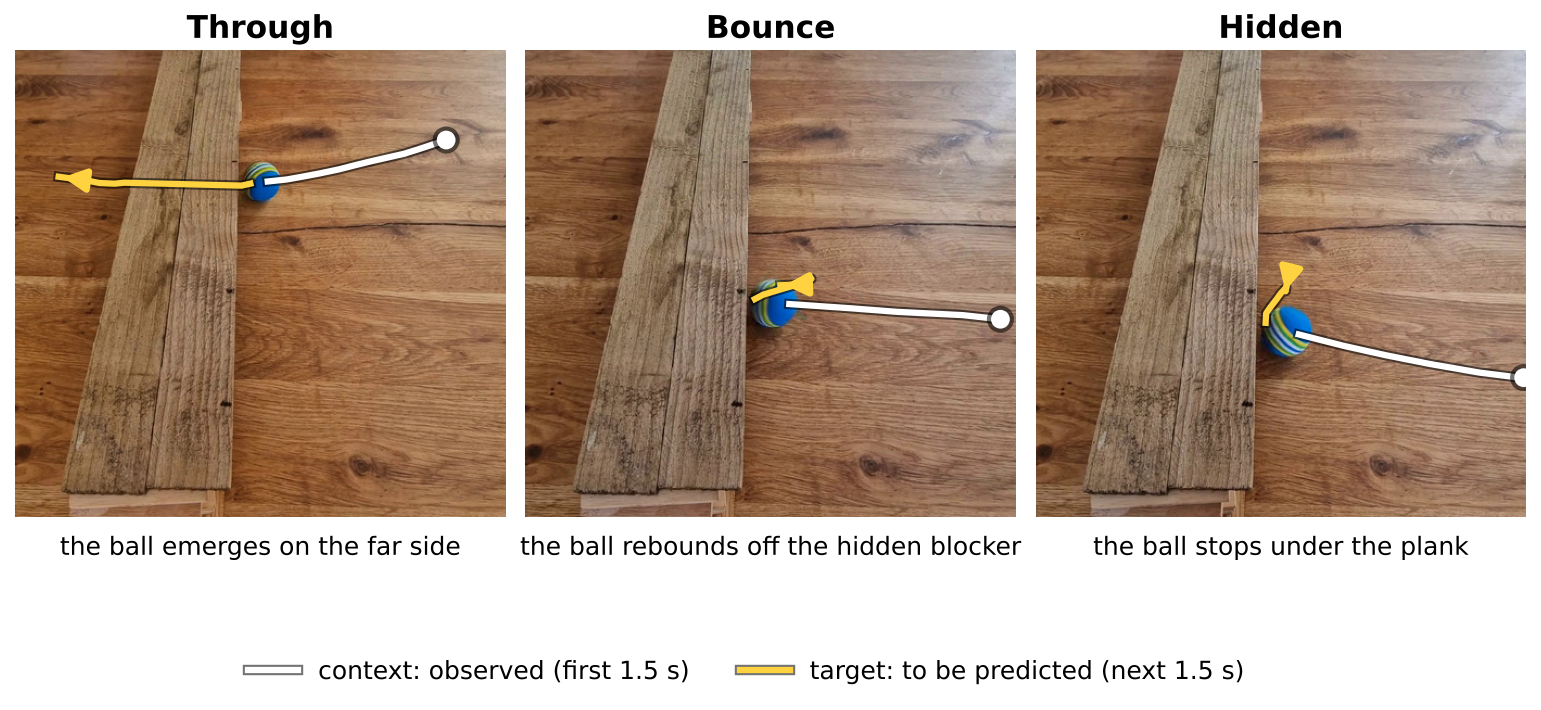
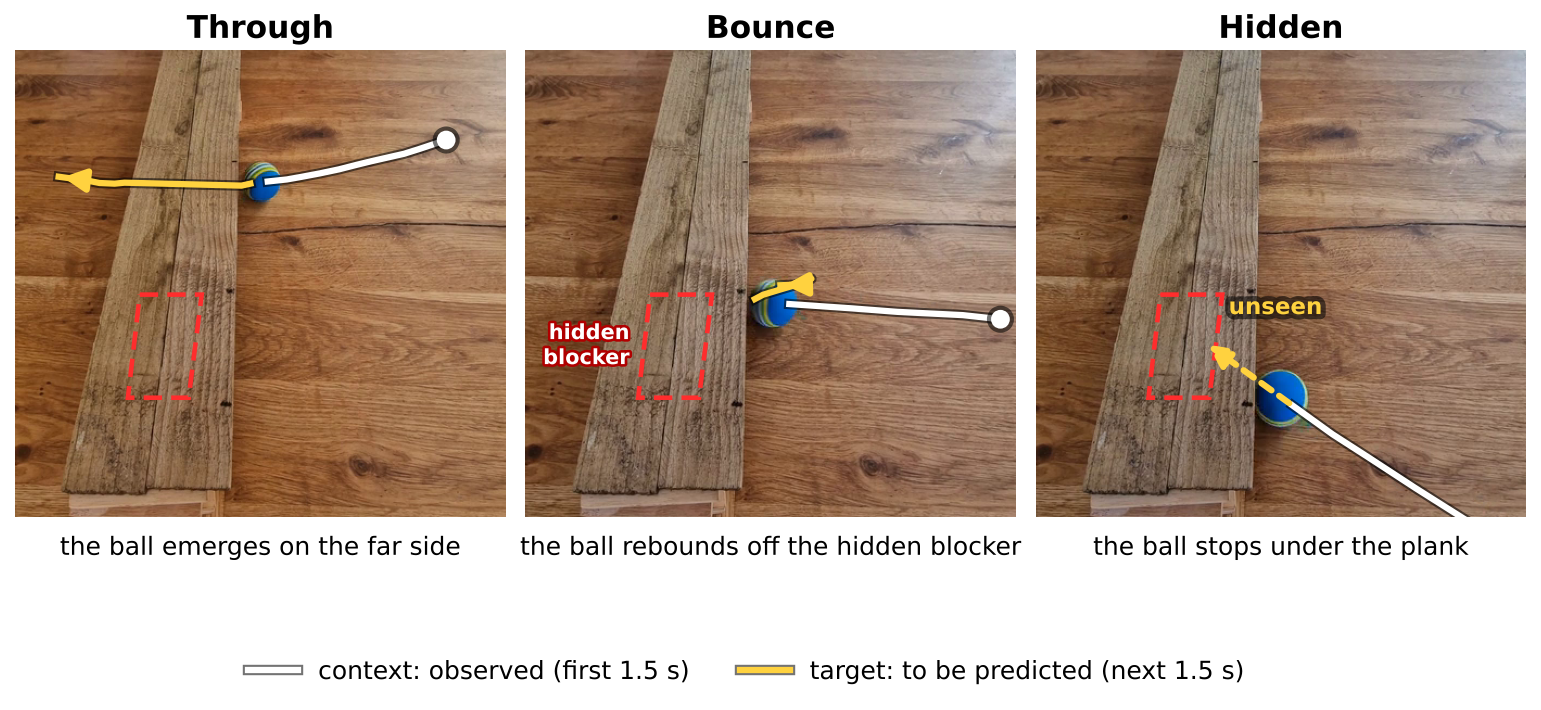
docs(readme): place the blocker correctly, clarify loss origin, policy actions and online updates
Blocker outline moved to the plank's centre seam between the middle and far
markers and added to the outcome figure, the data GIF and the rollout GIFs.
The hidden pass now shows a dashed 'unseen' arrow into the plank. The text
separates V-JEPA 2's standard objective from this work's additions, explains
the PyBullet choice, states what the policy learns, shortens the policy maths
and the Octo section, and adds sections on updating the world model during
operation and on JEPA with more compute.

diff --git a/docs/figures/make_figures.py b/docs/figures/make_figures.py
@@ -26,9 +26,9 @@ PLAN = REPO / "results" / "2026-10-04_2110_twoday" / "vjepa2" / "plan"
 SCENE = json.loads((REPO / "configs" / "scenes" / "whole.json").read_text())
 PLANK = np.asarray(SCENE["occluder_polygon"], float)
 
-# hidden blocker as placed (Fin, 16 Oct): under the two dark markers on the plank's right edge,
-# about half the plank width, in the middle along the plank
-BLOCKER = np.array([[201, 255], [258, 255], [256, 370], [188, 370]], float)
+# hidden blocker as placed (Fin, 16 Oct): centred on the seam between the plank's two boards, about half
+# the plank's width, along the plank between its middle and far dark markers
+BLOCKER = np.array([[175, 265], [232, 265], [220, 360], [164, 360]], float)
 
 PRE, TWO, FINAL = "both-before", "lossmix_both-after", "lossmix_topup-after"
 NAMES = {PRE: "Pretrained V-JEPA 2",
@@ -55,11 +55,35 @@ FONT = str(Path(matplotlib.__file__).parent / "mpl-data" / "fonts" / "ttf" / "De
 OUTLINE = [pe.Stroke(linewidth=5, foreground="black", alpha=0.55), pe.Normal()]
 
 
+def _blocker(ax, label: bool = True) -> None:
+    """Dashed outline of the hidden blocker (never visible in the video)."""
+    import matplotlib.patheffects as pe
+    from matplotlib.patches import Polygon
+    ax.add_patch(Polygon(BLOCKER, closed=True, fill=False, ec="#ff2d2d", lw=2.2, ls=(0, (4, 2))))
+    if label:
+        ax.text(BLOCKER[:, 0].min() - 8, BLOCKER[:, 1].mean(), "hidden\nblocker", ha="right", va="center",
+                fontsize=10, color="white", fontweight="bold",
+                path_effects=[pe.withStroke(linewidth=2.5, foreground="#b00000")])
+
+
+def _blocker_pil(im: Image.Image, scale: float) -> Image.Image:
+    from PIL import ImageDraw
+    d = ImageDraw.Draw(im)
+    pts = [tuple(q) for q in (BLOCKER * scale)]
+    for a, b in zip(pts, pts[1:] + pts[:1]):          # dashed edges
+        n = int(np.hypot(b[0] - a[0], b[1] - a[1]) // 6) + 1
+        for k in range(0, n, 2):
+            t0, t1 = k / n, (k + 1) / n
+            d.line([(a[0] + (b[0] - a[0]) * t0, a[1] + (b[1] - a[1]) * t0),
+                    (a[0] + (b[0] - a[0]) * t1, a[1] + (b[1] - a[1]) * t1)], fill=(255, 45, 45), width=3)
+    return im
+
+
 def fig_outcomes(clips: Path) -> None:
     rows = {r["clip_id"]: r for r in json.loads((PLAN / "scores" / PRE / "per_clip.json").read_text())}
     picks = [("whole_0206", "Through", "the ball emerges on the far side"),
              ("whole_0000", "Bounce", "the ball rebounds off the hidden blocker"),
-             ("whole_0007", "Hidden", "the ball stops under the plank")]
+             ("whole_0061", "Hidden", "the ball stops under the plank")]
     fig, axes = plt.subplots(1, 3, figsize=(13, 5.0), gridspec_kw={"wspace": 0.04})
     for ax, (cid, title, sub) in zip(axes, picks):
         frames = iio.imread(clips / "right" / f"{cid}.mp4")
@@ -69,7 +93,14 @@ def fig_outcomes(clips: Path) -> None:
         fut = np.array([q for q in r["true_pos"] if q], float)
         ax.plot(ctx[:, 0], ctx[:, 1], "-", color="white", lw=3, path_effects=OUTLINE)
         ax.plot(*ctx[0], "o", color="white", ms=8, path_effects=OUTLINE)
-        if len(fut):
+        _blocker(ax, label=title == "Bounce")
+        if title == "Hidden":            # never seen again: the ball runs under the plank and stops there
+            end = ctx[-1] + 2.2 * (ctx[-1] - ctx[-2])
+            ax.annotate("", end, ctx[-1], arrowprops={"arrowstyle": "-|>", "color": "#ffd23f", "lw": 3,
+                                                      "ls": (0, (2, 1.5)), "mutation_scale": 22})
+            ax.text(end[0] + 22, end[1] - 26, "unseen", ha="left", fontsize=11, color="#ffd23f",
+                    fontweight="bold", path_effects=OUTLINE)
+        elif len(fut):
             ax.plot(fut[:, 0], fut[:, 1], "-", color="#ffd23f", lw=3, path_effects=OUTLINE)
             ax.annotate("", fut[-1], fut[max(len(fut) - 3, 0)], arrowprops={"arrowstyle": "-|>", "color": "#ffd23f",
                                                                         "lw": 3, "mutation_scale": 22})
@@ -116,13 +147,13 @@ def _clean_orange(path: Path) -> list[np.ndarray]:
 def gif_data(clips: Path, orange: Path | None) -> None:
     parts = [("right", "whole_0206", "Ball from the right", "outcome: through"),
              ("right", "whole_0000", "Ball from the right", "outcome: bounce (blocked)"),
-             ("right", "whole_0007", "Ball from the right", "outcome: hidden (blocked)"),
+             ("right", "whole_0061", "Ball from the right", "outcome: hidden (blocked)"),
              ("left", "whole_0290", "Ball from the left", "outcome: through")]
     frames, dur = [], []
     for side, cid, title, sub in parts:
         v = iio.imread(clips / side / f"{cid}.mp4")
         for i in range(0, len(v), 3):
-            im = Image.fromarray(v[i]).resize((360, 360), Image.LANCZOS)
+            im = _blocker_pil(Image.fromarray(v[i]).resize((360, 360), Image.LANCZOS), 360 / 512)
             frames.append(_caption(im, title, sub))
             dur.append(190)
         dur[-1] = 900
@@ -194,15 +225,6 @@ def fig_rollout(clips: Path, cid: str, side: str, title: str, name: str) -> None
     # row labels sit left of the first image column; free that column for rows 2 and 3
     fig.suptitle(title, fontsize=14, fontweight="bold", y=0.96)
     save(fig, name)
-
-
-def _blocker(ax) -> None:
-    from matplotlib.patches import Polygon
-    import matplotlib.patheffects as pe
-    ax.add_patch(Polygon(BLOCKER, closed=True, fill=False, ec="#ff2d2d", lw=2.2, ls=(0, (4, 2))))
-    ax.text(BLOCKER[:, 0].max() + 10, BLOCKER[:, 1].mean(), "hidden\nblocker", ha="left", va="center",
-            fontsize=10, color="white", fontweight="bold",
-            path_effects=[pe.withStroke(linewidth=2.5, foreground="#b00000")])
 
 
 def gif_rollout(clips: Path, cid: str, side: str, name: str) -> None:

diff --git a/README.md b/README.md
@@ -98,12 +98,14 @@ scoring only. Clips in which a hand touches the ball are excluded.
 <p align="center"><img src="docs/figures/data.gif" width="420"></p>
 
 *Figure 2. Sample clips: the three outcomes from the training direction, a pass from the opposite direction, and
-stills of the held-out orange ball.*
+stills of the held-out orange ball. The red dashed outline marks the hidden blocker.*
 
 <p align="center"><img src="docs/figures/data_outcomes.png" width="900"></p>
 
 *Figure 3. The three outcome classes, shown on the last context frame. White: the observed context track (circle =
-start). Yellow: the target track the model must predict. "Bounce" and "hidden" are both blocked passes.*
+start). Yellow: the target track the model must predict; on the hidden pass it is dashed because the ball is never
+seen again. Red dashed outline: the hidden blocker, centred under the plank. "Bounce" and "hidden" are both blocked
+passes.*
 
 ## 2. Architecture and measurement
 
@@ -112,7 +114,10 @@ start). Yellow: the target track the model must predict. "Bounce" and "hidden" a
 Three generative video models, Wan 2.1 [1], Cosmos and LTX-Video (runners in `models/`), were evaluated
 zero-shot and did not meet the requirements of the problem. Pixel generation spends capacity on texture and
 lighting that carry no information about the blocker; their outputs were frequently blurry or physically
-implausible and had to be re-tracked before they could be scored. Billion-parameter diffusion models are also
+implausible and had to be re-tracked before they could be scored. They also lacked the scene knowledge itself:
+zero-shot, they typically showed the ball continuing along or under the plank rather than being stopped, the same
+inherent error as the pretrained V-JEPA 2, so they too would have required post-training on this scene, at far
+greater cost. Billion-parameter diffusion models are also
 expensive to adapt on a few hundred clips and prone to overfitting at that scale, and iterative denoising is too
 slow for a robot control loop.
 
@@ -142,6 +147,14 @@ Post-training is therefore not an extra matrix added after the model. It is a fu
 observed scene tokens to future scene tokens, with the representation $E_\theta$ held fixed. The prediction target
 is the layer-normalised encoder output of the real target half, $\bar z_t = \mathrm{LN}(z_t)$, as in V-JEPA 2's
 pretraining.
+
+**What is standard and what is new.** The architecture, the frozen encoder, the layer-normalised latent target and
+the plain L1 regression are V-JEPA 2's own design [2], which pretrains with a non-contrastive masked-prediction loss
+and an exponential-moving-average target encoder to avoid collapse. Three elements are added in this work for
+post-training on a small scene-specific dataset: the motion weighting $w_i$, the contrastive term, and
+loss-weighted sampling. The contrastive term is InfoNCE, introduced for Contrastive Predictive Coding [5]; JEPA
+pretraining deliberately avoids contrastive objectives, but here the term is safe to use because the encoder, and
+therefore the target space, is frozen, so the representation cannot collapse.
 
 **Objective.** The final configuration minimises a motion-weighted latent L1 loss plus a contrastive term:
 
@@ -407,58 +420,37 @@ above are what make the forecast matter.
 
 ### 6.3 Simulation and policy training
 
-The gripper is simulated in PyBullet (`models/gripper/`). Only the grasp of a single rolling ball is modelled,
-so a lightweight rigid-body simulator gives fast, reproducible training on a laptop CPU; heavier robotics stacks add
-fidelity this task does not need. Each episode replays a real exit (position, time and velocity from the tracker,
-with small jitter).
+**Simulator.** The gripper is simulated in PyBullet (`models/gripper/`). The question here is whether the forecast
+changes behaviour, not how to grasp in general, so the simulator only needs a rolling ball, two fingers and
+contact good enough to tell a held ball from a dropped one. PyBullet provides this from a single pip install, runs
+fast on a laptop CPU and has a built-in viewer for checking episodes. MuJoCo would offer more accurate contact and
+GPU-parallel training, but neither changes the answer for a 4 cm ball and a two-finger gripper, so the simpler tool
+was chosen deliberately to avoid over-engineering the part of the system that is not under test. Each episode
+replays a real exit (position, time and velocity from the tracker, with small jitter).
 
-**Observation, action and reward.** The observation $o_t \in \mathbb{R}^{17}$ contains the forecast
-$(\hat x, \hat t - t, \hat v)$ and its stated $(\sigma_s, \sigma_t, \sigma_v)$, the gripper's position and finger
-opening, and, once the ball is visible, a fit of its observed position and velocity. The action
-$a_t \in [-1, 1]^4$ sets the gripper's velocity in two directions, the finger opening and a grasp trigger, every
-1/16 s. The episode reward is
+**What the policy learns.** Every 1/16 s the policy outputs four numbers in $[-1, 1]$: the gripper's velocity
+along the plank edge, its velocity towards or away from the plank, how far the fingers are open, and a trigger to
+close. In effect it learns **where to wait** before the ball appears, **when to start moving**, **how wide to open**
+(wider is safer but slower to close) and **when to close**. Its observation $o_t \in \mathbb{R}^{17}$ is the forecast
+(exit position, time to exit, speed) and its stated uncertainty, the gripper's own position and opening, and, once
+the ball is visible, a fit of the ball's observed position and velocity.
 
-$$
-r =
-\begin{cases}
-1 + 0.5\,(1 - \delta) - 0.3\,g - c_{\text{move}} & \text{ball lifted and held} \\
--1 - c_{\text{move}} & \text{miss}
-\end{cases}
-$$
+**Reward and training.** Each episode scores
+$r = 1 + 0.5\,(1 - \delta) - 0.3\,g - c_{\text{move}}$ if the ball is lifted and held, and
+$r = -1 - c_{\text{move}}$ otherwise, where $\delta$ is how late the grasp happened, $g$ how wide the fingers were
+open and $c_{\text{move}}$ a small travel cost. The policy, a two-layer MLP (128 units), is trained with the standard
+PPO clipped objective [6] (Stable-Baselines3, standard settings with a small entropy bonus; 2.5 M steps per fold, 5 folds). The task-specific part is the
+training forecast: each episode draws an uncertainty $u \sim \mathcal{U}(0, 1)$ and a forecast equal to the true
+exit plus Gaussian noise of exactly the stated size, $\hat x = x + \varepsilon$, $\varepsilon \sim \mathcal{N}(0, (0.12u)^2)$
+m, and likewise for timing and speed. The policy therefore learns how far to trust a
+forecast from its stated uncertainty. It is then **frozen** and driven by each world model's real forecast, which it
+never saw paired with a real outcome, so one policy serves every world model and the comparison is not confounded by
+policy training.
 
-where $\delta \in [0, 1]$ is how deep into the catch zone the grasp happened (earlier is better), $g \in [0, 1]$ is
-how wide the fingers were open, and $c_{\text{move}}$ is a small cost on distance travelled.
-
-**Training.** The policy $\pi_\psi(a \mid o)$, a two-layer MLP (128 units per layer), is trained with PPO [6] by
-maximising the clipped surrogate objective
-
-$$
-\mathcal{L}^{\text{CLIP}}(\psi) = \mathbb{E}_t\Big[\min\big(\rho_t(\psi)\,\hat A_t,\ \mathrm{clip}(\rho_t(\psi), 1 - \epsilon, 1 + \epsilon)\,\hat A_t\big)\Big] + \beta\,\mathcal{H}[\pi_\psi],
-\qquad \rho_t(\psi) = \frac{\pi_\psi(a_t \mid o_t)}{\pi_{\psi_{\text{old}}}(a_t \mid o_t)}
-$$
-
-with advantages $\hat A_t$ from generalised advantage estimation ($\gamma = 0.99$, $\lambda = 0.95$),
-$\epsilon = 0.2$, entropy weight $\beta = 0.003$, learning rate $3 \times 10^{-4}$, 512-step rollouts and 10 update
-epochs, for 2.5 M steps per fold over 5 folds (Stable-Baselines3). During training each episode draws
-$u \sim \mathcal{U}(0, 1)$ and a forecast equal to the true exit plus Gaussian noise of exactly the stated size,
-$\hat x = x + \varepsilon$ with $\varepsilon \sim \mathcal{N}(0, \sigma_s^2)$, and likewise for timing and speed.
-The policy therefore learns how much to trust a forecast from its stated uncertainty. It is then **frozen** and
-evaluated on real passes with each world model's forecast, and it never sees a world model's real forecast paired
-with a real outcome. The trade-off is that the policy must be calibrated to the uncertainty the world model actually
-reports; in exchange, one policy serves every world model and the comparison between world models is not confounded
-by policy training.
-
-**Decision to set off.** Before the ball can emerge, the gripper decides whether to move at all. With $c(u)$ the
-frozen policy's simulated pick-up rate at uncertainty $u$ (Figure 9), it sets off if and only if
-
-$$
-p\,\big[c(u)\,(R_{\text{pick}} + \bar e) - (1 - c(u))\,R_{\text{miss}}\big] - (1 - p)\,R_{\text{waste}}
-\;>\; -p\,R_{\text{let go}} + (1 - p)\,R_{\text{hold}}
-$$
-
-with the evaluation rewards $R_{\text{pick}} = 3$ (plus a mean early bonus $\bar e = 0.25$), $R_{\text{miss}} = 0.5$,
-$R_{\text{waste}} = 1$ for a trip to a blocked ball, $R_{\text{let go}} = 1$ for staying when the ball emerges, and
-$R_{\text{hold}} = 0.5$ for correctly holding back. Nothing in this rule is fitted to real data.
+**Decision to set off.** Before the ball can emerge, the gripper decides whether to move at all: it sets off when
+the expected reward of going, $p$ times the reward of a pick-up attempt at the policy's simulated success rate
+$c(u)$ minus $(1 - p)$ times the cost of a wasted trip, exceeds the expected reward of staying. The rule uses fixed
+rewards and the simulated $c(u)$ only; nothing in it is fitted to real data.
 
 ### 6.4 How uncertainty drives behaviour
 
@@ -512,17 +504,10 @@ limits, its observation layout and a reward tuned to its catch geometry, and the
 catch-rate curve $c(u)$. A different robot needs its own low-level controller, which is the cheapest part to obtain
 because it is trained in simulation.
 
-**A concrete route for a generalist policy: Octo.** Octo [7] is an open-source transformer policy whose inputs are
-tokenised modality by modality, and which was designed to be fine-tuned to **new observation inputs and new action
-spaces** by adding a lightweight tokenizer and head while keeping the pretrained backbone. The forecast vector would
-enter as an additional low-dimensional observation token alongside the camera tokens, and Octo would be fine-tuned
-on demonstrations generated in simulation by the PPO policy above, which supplies unlimited, perfectly labelled
-trajectories for any embodiment that can be simulated. Octo suits this because its tokenised inputs accept a new
-sensor-like signal without architectural change and it fine-tunes on a single GPU from a few hundred
-demonstrations. π0 is a viable alternative through its proprioceptive state input, at higher compute cost.
-OpenVLA conditions only on an image and a language instruction, so the forecast would have to be rendered into
-the image or the prompt, which discards its numerical precision. This fine-tune has not been run; it is the natural
-next step for carrying the result to a general-purpose manipulator.
+**A route to a generalist policy.** Octo [7], an open-source generalist robot policy, is designed to be fine-tuned
+to new observation inputs and action spaces by adding a small input tokenizer and output head. The forecast would
+enter as one extra low-dimensional observation token, and Octo would be fine-tuned on demonstrations generated in
+simulation by the PPO policy above. This fine-tune has not been run.
 
 ## 7. Conclusion, impact and outlook
 
@@ -546,14 +531,36 @@ verifiable test of the property those systems rely on: that scene-specific physi
 video and measured independently of the readout. Latent prediction also needs only one forward pass per forecast,
 which suits on-board inference on power-limited humanoid hardware better than iterative video generation.
 
-### 7.3 Handheld and egocentric video
+### 7.3 Updating the world model while the robot operates
+
+Because every pass labels itself (the first half of a clip is the input, the second half the target), the world
+model can keep learning during operation. A feasible scheme is to buffer recent clips from the robot's camera, run
+predictor updates in the background between tasks with a small learning rate, and replay a share of older clips so
+that earlier knowledge is not forgotten. The frozen probe and encoder keep the readout valid throughout, so the
+policy's input means the same thing before and after each update. This is cheaper for a JEPA than for a generative
+model: only the predictor (12 layers at width 384, a small fraction of the model) is updated, the target is one
+encoder pass of the real future rather than a pixel reconstruction, and no diffusion steps are needed. In this work
+an update cost under one second per clip on a single T4 (from the 20-epoch run time), against billion-parameter
+updates for a video diffusion model. A moved-blocker recording would test how quickly such updates adapt.
+
+### 7.4 Would a JEPA remain the choice with more compute?
+
+For the forecasting layer, yes. Compute was not the only reason for choosing V-JEPA 2: latent prediction suits
+multi-modal outcomes, is cheap to run on a robot and plugs directly into planning [2]. With more compute, the main
+change would be to post-train more of the model (unfreezing upper encoder layers, which would also require
+re-fitting the probe before post-training) and to use the action-conditioned predictor so that the robot's own
+actions enter the forecast. Generative video models would remain useful where a human must see the prediction, or
+to synthesise extra training scenes, so a likely future system pairs a latent model for control with a generative
+model for visualisation and data.
+
+### 7.5 Handheld and egocentric video
 
 Large egocentric datasets and handheld data-collection tools show that human-held cameras are the scalable
 source of home video. Handheld video introduces camera motion; latent models are better placed than pixel
 generators to absorb it, but the probe and the slope measurement would need to operate in a camera-stabilised or
 world-fixed frame.
 
-### 7.4 Limitations and next steps
+### 7.6 Limitations and next steps
 
 The study uses one scene, one blocker position and a single training seed with 5-fold cross-validation; the
 left-entry set contains only 3 hidden passes; the predicted ball remains fainter than the real one in the narrow
